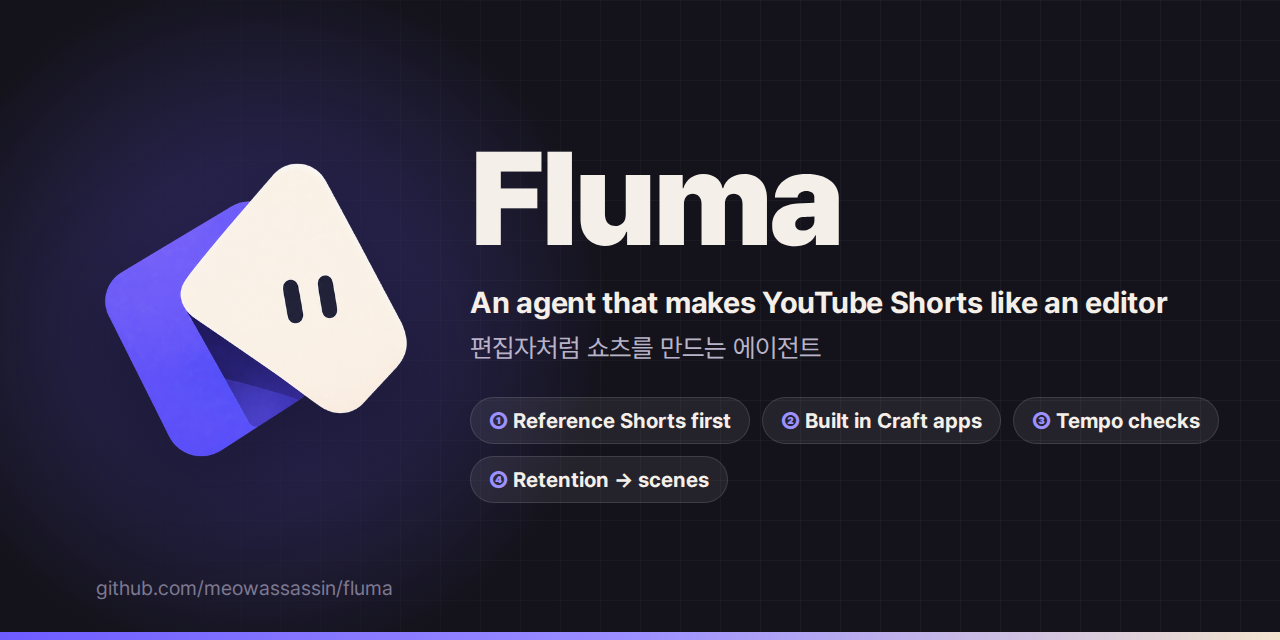
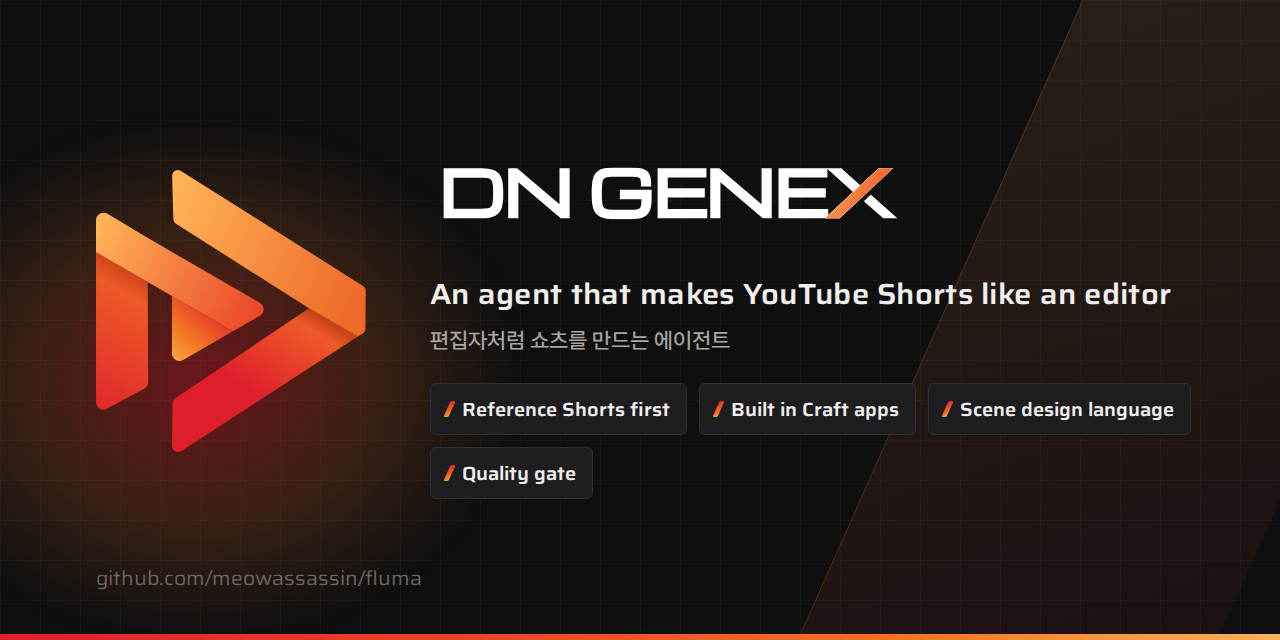
docs: rebrand README and docs as DN GENEX
- README (en/ko): DN GENEX logo for light and dark themes, animated
  symbol, new screenshots of the rethemed studio
- New section on the four-call agent flow and the scene design
  language; layout, stage table, roadmap and changelog updated
- Quick start, contributing, skill and demo docs use the new name;
  repository URLs, commands and identifiers are unchanged
- New social preview image

diff --git a/README.md b/README.md
@@ -1,36 +1,44 @@
 <div align="center">
 
-<img src="docs/assets/fluma-spin.gif" width="148" alt="Fluma mascot" />
+<picture>
+  <source media="(prefers-color-scheme: dark)" srcset="docs/assets/genex-logo-h-white.svg" />
+  <img src="docs/assets/genex-logo-h-black.svg" width="420" alt="DN GENEX" />
+</picture>
 
-# Fluma
+<br/><br/>
 
-**YouTube Shorts without generative models — Fluma re-edits 2D graphics, images and footage that already exist, the way an editor and a director would. Every frame is made locally.**
+<img src="docs/assets/genex-mark.gif" width="120" alt="DN GENEX symbol" />
 
-[![License](https://img.shields.io/badge/license-Apache--2.0-5b5bd6)](LICENSE)
+
+# DN GENEX
+
+**YouTube Shorts without generative models — DN GENEX re-edits 2D graphics, images and footage that already exist, the way an editor and a director would. Every frame is made locally.**
+
+[![License](https://img.shields.io/badge/license-Apache--2.0-df1f2b)](LICENSE)
 [![Quick start](https://img.shields.io/badge/quick%20start-10%20min-2fb67c)](QUICKSTART.md)
 ![Tested on](https://img.shields.io/badge/tested-Linux%20·%20macOS%20·%20Windows%20·%20ARM-555)
 ![Generation cost](https://img.shields.io/badge/generation%20cost-%240-2fb67c)
 
-[Quick start](QUICKSTART.md) · [Why Fluma](#why-fluma) · [How it works](#how-it-works) · [Contributing](CONTRIBUTING.md)
+[Quick start](QUICKSTART.md) · [Why DN GENEX](#why-dn-genex) · [How it works](#how-it-works) · [Contributing](CONTRIBUTING.md)
 
 **English** · [한국어](README.ko.md)
 
 </div>
 
-<p align="center"><img src="docs/assets/screens/home.webp" alt="Fluma home" width="880" /></p>
+<p align="center"><img src="docs/assets/screens/home.webp" alt="DN GENEX home" width="880" /></p>
 
-## What is Fluma
+## What is DN GENEX
 
 A local agent workspace for vertical short-form video (YouTube Shorts, Reels, TikTok).
 You talk to the **Claude Code, Codex or Antigravity** you already use. The agent studies Shorts that work, then turns **real material** — web screens, documents, data, photos, sourced clips, stock footage — into a video with open-source creative apps.
 It uses no image or video generation model (no generation bill), and everything it makes stays an editable project file. Scenes that never happened are staged with drawings, diagrams, memes or metaphors instead of fake footage.
 
-## Why Fluma
+## Why DN GENEX
 
 Generative video models are great at scenes that don't exist. But a lot of Shorts are about **re-editing what already exists** — a real app screen, an original document, an exact number, a clip that went viral.
-That is the niche Fluma is built for.
+That is the niche DN GENEX is built for.
 
-| | Generative video models | Fluma |
+| | Generative video models | DN GENEX |
 |---|---|---|
 | Cost | Billed per second or per clip, more with every re-roll | **$0 generation** — your agent login, free voices, free stock |
 | Text, numbers, logos | Often garbled or invented | Real documents, real screens, the actual data |
@@ -84,6 +92,27 @@ That is the niche Fluma is built for.
 - 🌐 **Korean first, multilingual** — Korean tone analysis and caption grammar; UI in English, 한국어, 中文.
 - 🔐 **Local first** — keys and YouTube tokens live in `~/.shortsforge/` (0600), out of the agent's reach.
 
+## How the agent makes a video
+
+The agent makes the judgement calls; the DN GENEX MCP server (`engine/mcp_server.py`) runs the fixed order, measures and enforces the quality gate. A new video is **four calls**:
+
+```mermaid
+flowchart LR
+  P1["plan_submit<br/>script · sourced facts · assets"] --> J["server: script checks · background review<br/>voice · captures · icons · forms start at once"]
+  P1 --> P2["design_submit<br/>direction + every scene in the design language"]
+  J --> B
+  P2 --> B["server: compile → build → stills<br/>pre-render design checks"]
+  B --> P3["design_patch<br/>only the scenes to fix"]
+  P3 --> B
+  B --> P4["finish<br/>review → one final render → quality gate"]
+```
+
+- **Field-level errors before anything is written** — wrong values, missing pictures and cue words the voice never says come back one field at a time.
+- **Scene design language** (`engine/craft/design_lang.py`) — scenes are written as composable *what · where · on which word · how* (text, tags, shapes, captures, forms, icons; relations instead of pixel coordinates; enter / motion / camera verbs; any EffectCraft effect). It compiles to the same EffectCraft scene code, so render, cache and checks are unchanged; one element — or a whole scene — can still be hand-written code.
+- **Background script review** — the viewer / writer review runs while the agent designs. If it blocks, designs are kept; if it rewrites a line, cue words follow the new line.
+- **Light renders** — scene segments render with small EffectCraft caches (same frames; on a 35 s video peak memory 3.2 GB → 1.75 GB, scene drawing 112 s → 50 s).
+- The finer tools (`prep_start`, `review_frames`, `render_start`, …) stay for scene-by-scene work with a person.
+
 ## How it works
 
 ```mermaid
@@ -116,6 +145,7 @@ flowchart LR
 | Materials | `engine/craft/materials.py` + `engine/craft/adapters/<app>.py` | one adapter per Craft app; `type: craft` runs any command list |
 | Variety | `engine/craft/craft_catalog.py`, `craft_variety.py`, `.claude/skills/crafts/` | 9,000+ features searchable, recipes, repetition checks, usage per video |
 | Motion · sound · edit | `engine/craft/motion.py`, `audio.py`, `edit.py` | EffectCraft comps, SoundCraft mix, FilmCraft assembly |
+| Agent flow | `engine/mcp_server.py`, `engine/mcp/` | plan_submit → design_submit → design_patch → finish; jobs, field-level errors, background script review |
 | One command | `engine/produce.py` | voice → lint → materials → pre-render still review → one render at delivery size → quality gate |
 | Checks | `engine/checks/` | first second · freezes · pauses · cut density; visual AI-tell and quality gate (blocks stop the upload) |
 | Publish & learn | `engine/publish/`, `studio/youtube.mjs` | OAuth, resumable upload, Analytics mapped to scenes |
@@ -133,14 +163,14 @@ An IDE-style workspace: an **Explorer** tree of what the video is made of — *E
 
 ## The Craft apps
 
-Fluma drives the open-source **Craft** desktop/web apps (by [storytold](https://github.com/storytold), MIT / Apache-2.0) through their CLIs and MCP servers. They are **not bundled** — install the ones you want (about 1.6 GB download for all 16):
+DN GENEX drives the open-source **Craft** desktop/web apps (by [storytold](https://github.com/storytold), MIT / Apache-2.0) through their CLIs and MCP servers. They are **not bundled** — install the ones you want (about 1.6 GB download for all 16):
 
 ```bash
 python3 engine/craft/crafts.py plan all        # what would be downloaded, no download
 python3 engine/craft/crafts.py install all     # or pick: install effectcraft soundcraft filmcraft …
 ```
 
-| App | What Fluma uses it for |
+| App | What DN GENEX uses it for |
 |---|---|
 | EffectCraft | motion of every scene — built-in background · entrance · text presets, screen frames, push-ins |
 | SoundCraft | voice chain (EQ · compressor · de-esser), per-word sound effects, ducking, −14 LUFS |
@@ -163,7 +193,7 @@ Settings → **YouTube**: create an OAuth client in Google Cloud (enable *YouTub
 - **Publish · Results** in the editor uploads the latest render (private by default) or links a video you already uploaded;
 - **My channel videos** shows stats for any video on the channel.
 
-Analytics fill in 1–2 days after publishing; *viewed vs. swiped away* itself is only in YouTube Studio, so Fluma shows *stayed-to-watch* = engaged views ÷ views as the closest API value.
+Analytics fill in 1–2 days after publishing; *viewed vs. swiped away* itself is only in YouTube Studio, so DN GENEX shows *stayed-to-watch* = engaged views ÷ views as the closest API value.
 
 ## Quick start
 
@@ -204,7 +234,8 @@ fluma/
 ├─ engine/                 Python production engine
 │  ├─ produce.py           one command: storyboard → voice → lint → review → render → quality gate
 │  ├─ render.py · doctor.py · fluma_agent.py · mcp_server.py
-│  ├─ craft/               Craft pipeline — materials · motion · audio · edit · design.py (effects per video) · adapters/<app>.py
+│  ├─ mcp/                 MCP tools — four-call flow (fluma_flow.py) · jobs · project status · assets · stage
+│  ├─ craft/               Craft pipeline — materials · motion · audio · edit · design.py (effects per video) · design_lang.py (scene design language) · adapters/<app>.py
 │  │  ├─ apps/             the 16 Craft apps (craft.json each)
 │  │  ├─ renderer/         render-engine entry (engine.json · adapter)
 │  │  ├─ form/             shapes built from data (SDF) — styles, rigs, 3D render look
@@ -236,6 +267,7 @@ fluma/
 
 ## Roadmap
 
+- [x] Four-call MCP flow for agents (plan_submit → design_submit → design_patch → finish) and the scene design language
 - [x] Reference-first storyboard with enforced checks (L30 · L31)
 - [x] Craft app pipeline with editable project files and hand-edit protection
 - [x] IDE-style editor with per-item results

diff --git a/CHANGELOG.md b/CHANGELOG.md
@@ -3,6 +3,11 @@
 
 ## Unreleased
 
+- DN GENEX 로 브랜드 변경: 로고 · 파비콘 · 앱 아이콘 · 진행 표시(재생 화살 · 빛줄기 · 속도선) · 글꼴 Saira(한글은 Pretendard) · 빨강 → 주황 그라데이션 테마(앱 · 영상 편집기), README 이미지 새로 / Rebranded to DN GENEX: logo, icons, progress motion, Saira type, red-to-orange theme across the app and video editor, new README images
+- 에이전트 제작 흐름: MCP 굵은 도구 네 번(`plan_submit` → `design_submit` → `design_patch` → `finish`, 재료는 `assets_start`) — 서버가 순서를 돌리고 칸별 오류를 저장 전에 돌려줌, 대본 검토는 뒤에서, 막혀도 설계는 남고 고친 대사에 낱말이 따라감 / Four-call MCP flow with field-level errors, background script review, kept designs and cue words that follow rewritten lines
+- 장면 설계 언어(`engine/craft/design_lang.py`): 무엇을 · 어디에 · 어느 말에 · 어떻게의 조합 → 같은 EffectCraft 장면 코드로 컴파일(콘티 재료 `$DESIGN:`), 요소 · 장면 단위 코드 탈출구 / Scene design language compiled to the same EffectCraft scene code
+- 렌더: 구간 렌더를 작은 EffectCraft 캐시로(같은 프레임, 최대 메모리 3.2GB → 1.75GB · 장면 그리기 112초 → 50초), 렌더 전 정지 화면으로 디자인 검사를 미리, 렌더 안쪽 시간 · 메모리 기록 / Lean-cache segment renders, pre-render design checks from stills, render profile log
+
 - 속도 · 정확: 3D 렌더 판 셰이딩(나무 결 노이즈 · 주변 빛)을 numba 로, 큰 흐림은 줄인 그림에서(판 한 장 16.4초 → 10.4초, 화소 차이 최대 4/255) · 음악 검색 결과 12시간 · 박자 잰 값 재사용, 검색 · 받기 시간 초과에도 다른 후보로 · `publish.py final` 은 막음 없는 produce 결과를 다시 렌더하지 않음 · 검토 상한 뒤에도 그림이 그대로인 장면의 문제는 계속 막음 · 쓰지 않던 의도 · 시안 승인 관문(`gate.py`) 제거 / Faster 3D render-style shading (numba) and downsampled large blurs, cached music searches and tempo measurements, no re-render on publish when produce already finished, review cap no longer waves through unchanged scenes, removed the unused approval gate
 - 호환성: Windows 에서 엔진이 돌지 않던 문제(리눅스 전용 파일 잠금 · 파이프 select · 프로세스 그룹 종료 · 다른 드라이브 경로)와 macOS 에서 VectorCraft 를 못 찾던 문제를 고침, `doctor --fix` 가 Craft 앱용 한글 글꼴(Noto Sans CJK KR)을 운영체제 글꼴 폴더에 설치, 남은 메모리는 psutil 로(macOS · Windows) · CI 세 운영체제 통과 / Compatibility: engine runs on Windows (portable file lock, pipe reads, process-tree kill, cross-drive paths), VectorCraft found on macOS, `doctor --fix` installs Noto Sans CJK KR for Craft apps, free memory via psutil; CI green on Linux, macOS and Windows
 - 정리: 화면에 나오지 않던 UI · vendor 패키지 · 서버 API · CSS · 번역 키 · npm 의존성 16개, 엔진의 쓰이지 않는 모듈 · 함수 · 옛 CLI 옵션(`produce.py --final`, `direct.py --no-cast`), 시리즈(n8n) 프리셋 파일 제거 / Cleanup: unreachable UI, unused vendor packages, routes, CSS, i18n keys, 16 npm deps, dead engine code and no-op CLI flags, leftover series (n8n) presets

diff --git a/QUICKSTART.md b/QUICKSTART.md
@@ -2,7 +2,7 @@
 
 **English** · [한국어](QUICKSTART.ko.md)
 
-Fluma runs locally: a web Studio (Node) plus a Python pipeline, driving the open-source Craft apps.
+DN GENEX runs locally: a web Studio (Node) plus a Python pipeline, driving the open-source Craft apps.
 
 ## Pick a path
 
@@ -11,7 +11,7 @@ Fluma runs locally: a web Studio (Node) plus a Python pipeline, driving the open
 | Let your own agent do it | Give Claude Code or Codex: *Use this skill: https://raw.githubusercontent.com/meowassassin/fluma/main/docs/skill/SKILL.md — make a Short about "…"* | hands-off |
 | The easiest start, any OS (Linux · macOS · Windows) | [Docker](#docker) — two commands, everything included | download ~15 GB, once |
 | To run it directly on your machine | [Install](#2-install) — `doctor.py --fix` | ~10 min + downloads |
-| To change Fluma itself | Install, then `npm --prefix studio run dev` and the [tests](#check--troubleshoot) | — |
+| To change DN GENEX itself | Install, then `npm --prefix studio run dev` and the [tests](#check--troubleshoot) | — |
 
 Either way you need an agent: a logged-in **Claude Code**, **Codex** or **Antigravity** CLI on your computer (Docker reuses the Claude Code and Codex logins),
 or an API key (Anthropic, OpenAI, Gemini, or a local Ollama) entered in **Settings → Models · Providers**.
@@ -137,8 +137,8 @@ On Windows, Docker Desktop uses WSL 2 — [install WSL](https://learn.microsoft.
 
 <details><summary>Troubleshooting</summary>
 
-- **`Bind for 127.0.0.1:4311 failed: port is already allocated`** — another Fluma (or dev server) is running. `docker ps` shows which; stop it with `docker compose down` in *its* folder, or stop the dev server.
-- **`service "fluma" is not running`** — you ran the command in a different folder from the one you started Fluma in (compose names projects by folder). Run it in the `docker/` folder, or use `docker ps` to find the container name.
+- **`Bind for 127.0.0.1:4311 failed: port is already allocated`** — another DN GENEX (or dev server) is running. `docker ps` shows which; stop it with `docker compose down` in *its* folder, or stop the dev server.
+- **`service "fluma" is not running`** — you ran the command in a different folder from the one you started DN GENEX in (compose names projects by folder). Run it in the `docker/` folder, or use `docker ps` to find the container name.
 - **Agent says it is not logged in** (e.g. Claude Code on macOS keeps its login in the Keychain): `docker compose exec -it fluma claude` → `/login` once.
 - **Files created by the container belong to another user (Linux)** — if `id -u` is not 1000, set `FLUMA_UID=…` and `FLUMA_GID=…` in `.env` and rebuild.
 

diff --git a/docs/skill/SKILL.md b/docs/skill/SKILL.md
@@ -1,14 +1,14 @@
 ---
 name: fluma-video
-description: Use when the user wants to install or run Fluma, or wants a short-form explainer video made with Fluma from a topic (especially developer / IT topics shown with real screens — real command output, real code and official docs). Installs Fluma, starts the Studio and kicks off the first video's planning chat. Also use when the user gives this skill URL.
+description: Use when the user wants to install or run DN GENEX, or wants a short-form explainer video made with DN GENEX from a topic (especially developer / IT topics shown with real screens — real command output, real code and official docs). Installs DN GENEX, starts the Studio and kicks off the first video's planning chat. Also use when the user gives this skill URL.
 compatibility: Needs a terminal, git, network and either Docker or Python 3.10+ / Node.js 20+ / ffmpeg. Linux, macOS, Windows (Docker Desktop / WSL 2).
 metadata:
   upstream: "https://github.com/meowassassin/fluma"
 ---
 
-# Fluma — install, start, first video
+# DN GENEX — install, start, first video
 
-Fluma is a local Shorts studio: an in-app agent (the user's own Claude Code, Codex or Antigravity login) plans with the user, studies
+DN GENEX is a local Shorts studio: an in-app agent (the user's own Claude Code, Codex or Antigravity login) plans with the user, studies
 reference Shorts, records real screens, checks the result and renders editable Craft projects. Your job is to get it
 running and hand the user a Studio with the first video already being planned. Do not try to make the video yourself.
 
@@ -33,9 +33,9 @@ running and hand the user a Studio with the first video already being planned. D
   checks the agent builds and renders it (the *자동 진행* autopilot switch lets it finish without asking). Finished videos: **Download** next to **Render** in the editor.
 - **10** `FLUMA_NEEDS_INPUT` — `needs=` / `how=`: usually "log in to Claude Code or Codex once" (`claude` → `/login`) or a system
   program (ffmpeg, Node.js). Ask once, then rerun the same command.
-- **1** `FLUMA_ERROR` — `stage=` / `error=`. Fix what the short error says (e.g. port 4311 used by another Fluma: stop it) and
+- **1** `FLUMA_ERROR` — `stage=` / `error=`. Fix what the short error says (e.g. port 4311 used by another DN GENEX: stop it) and
   rerun once. If it fails again, report the stage and the short error.
 
 ## Scope
-- One Fluma per machine (port 4311). Do not start a second copy.
-- Do not edit Fluma's code or settings files to work around errors.
+- One DN GENEX per machine (port 4311). Do not start a second copy.
+- Do not edit DN GENEX's code or settings files to work around errors.

diff --git a/docs/demo/README.md b/docs/demo/README.md
@@ -1,11 +1,11 @@
 # Demo videos
 
-Made only with Fluma's own UI captures and drawn graphics — no third-party footage, memes or logos.
+Made only with DN GENEX's own UI captures and drawn graphics — no third-party footage, memes or logos.
 Numbers on screen are real analysis results (channel cards of a talk-led tech channel and a music-led cooking channel).
 
 | File | What |
 |---|---|
-| `fluma-intro-draft-s1-3.mp4` | "Fluma — one link, that channel's grammar" — draft of scenes 1–3 (540×960) |
+| `fluma-intro-draft-s1-3.mp4` | "DN GENEX — one link, that channel's grammar" — draft of scenes 1–3 (540×960) |
 
 Voice: Typecast (commercial use per plan terms).
 The full 1080×1920 version has not been rendered yet; it was made with an earlier engine, so it would be rebuilt with the current pipeline rather than re-rendered.

diff --git a/docs/skills/reference-to-shorts/SKILL.md b/docs/skills/reference-to-shorts/SKILL.md
@@ -3,12 +3,12 @@ name: reference-to-shorts
 description: Analyze a reference YouTube Short and its channel (structure, screen kinds, cut rhythm, music beat, tone, voice) and turn that grammar into a storyboard for the user's own topic. Use when the user shares a Shorts/Reels link and says "make mine like this". Works next to HyperFrames or Remotion skills.
 ---
 
-# Reference → Shorts (Fluma)
+# Reference → Shorts (DN GENEX)
 
 Goal: copy the **grammar** of a reference channel, never its content. Footage, voice and script of the reference are
 analysis material only.
 
-## 1. Build the cards (Fluma repo, Python venv)
+## 1. Build the cards (DN GENEX repo, Python venv)
 
 ```bash
 python3 engine/research/shorts_xray.py <shorts-url>          # cuts, speech (word timing), music beats, layers

diff --git a/studio/agent/system.md b/studio/agent/system.md
@@ -1,6 +1,6 @@
-# Fluma 에이전트
+# DN GENEX 에이전트
 
-너는 Fluma 에서 세로 숏폼(1080×1920, 15~60초) 한 편을 사용자와 함께 만드는 에이전트다.
+너는 DN GENEX 에서 세로 숏폼(1080×1920, 15~60초) 한 편을 사용자와 함께 만드는 에이전트다.
 사용자는 오른쪽 에이전트 패널로 말하고, 가운데는 Craft 앱이 편집 툴로 뜬다(편집 · 미리보기 = FilmCraft, 소리 = SoundCraft, 움직임 = EffectCraft, 그림 = VectorCraft, 사진 = PhotoCraft …). 사용자가 고른 항목은 맥락의 '편집 대상'으로 온다.
 **영상 퀄리티가 가장 중요하다.** 흔들림 · 겹침 · 잘린 글자 · 의미 없는 장식이 없는지 정지 화면으로 직접 확인한다.
 

diff --git a/CONTRIBUTING.ko.md b/CONTRIBUTING.ko.md
@@ -1,11 +1,11 @@
-# Fluma 에 기여하기
+# DN GENEX 에 기여하기
 
 [English](CONTRIBUTING.md) · **한국어**
 
 **있는 그대로 오세요.** 포크하고, 고치고, 부수고, 내 것으로 만드세요. PR · 새 기능 · 엉뚱한 실험 · 작은 수정 · 오타 ·
 번역 · 버그 제보 · 덜 익은 아이디어 모두 환영합니다 — 먼저 물어볼 필요 없어요.
 
-Fluma 는 Apache-2.0 이라 상업용이든 아니든 내 프로젝트에 자유롭게 쓰고 고칠 수 있습니다.
+DN GENEX 는 Apache-2.0 이라 상업용이든 아니든 내 프로젝트에 자유롭게 쓰고 고칠 수 있습니다.
 
 ## 시작하는 방법
 

diff --git a/CONTRIBUTING.md b/CONTRIBUTING.md
@@ -1,11 +1,11 @@
-# Contributing to Fluma
+# Contributing to DN GENEX
 
 **English** · [한국어](CONTRIBUTING.ko.md)
 
 **Come as you are.** Fork it, change it, break it, make it yours. Pull requests, new features, wild experiments,
 small fixes, typo fixes, translations, bug reports and half-baked ideas are all welcome — you don't need to ask first.
 
-Fluma is Apache-2.0, so you're also free to use and modify it in your own projects, commercial or not.
+DN GENEX is Apache-2.0, so you're also free to use and modify it in your own projects, commercial or not.
 
 ## Ways to jump in
 
